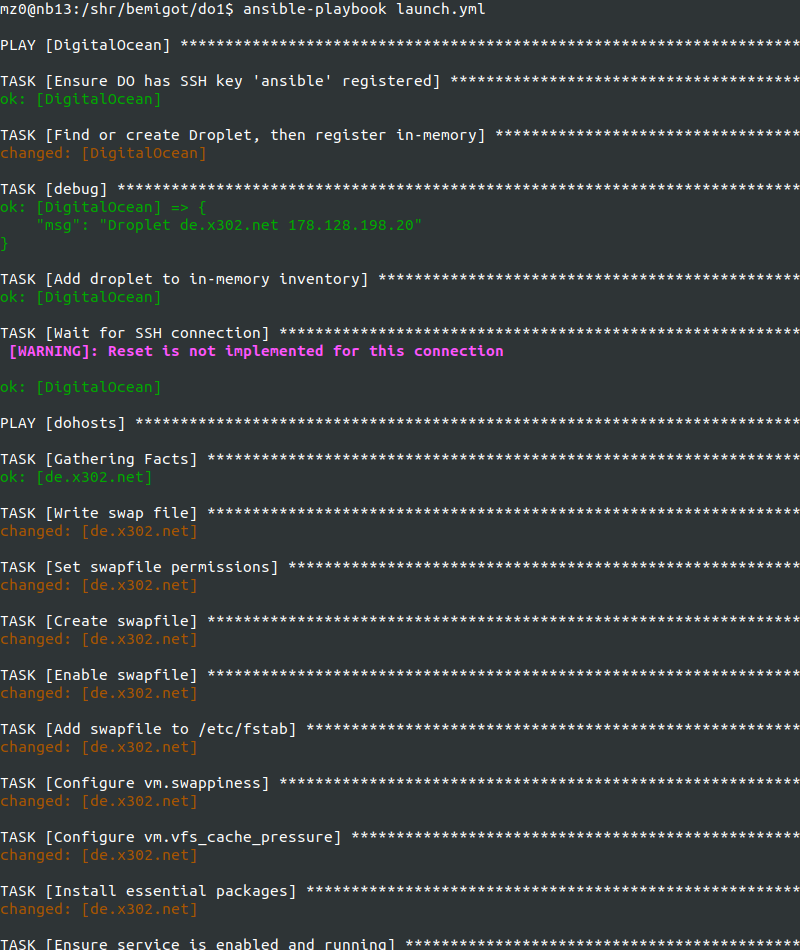
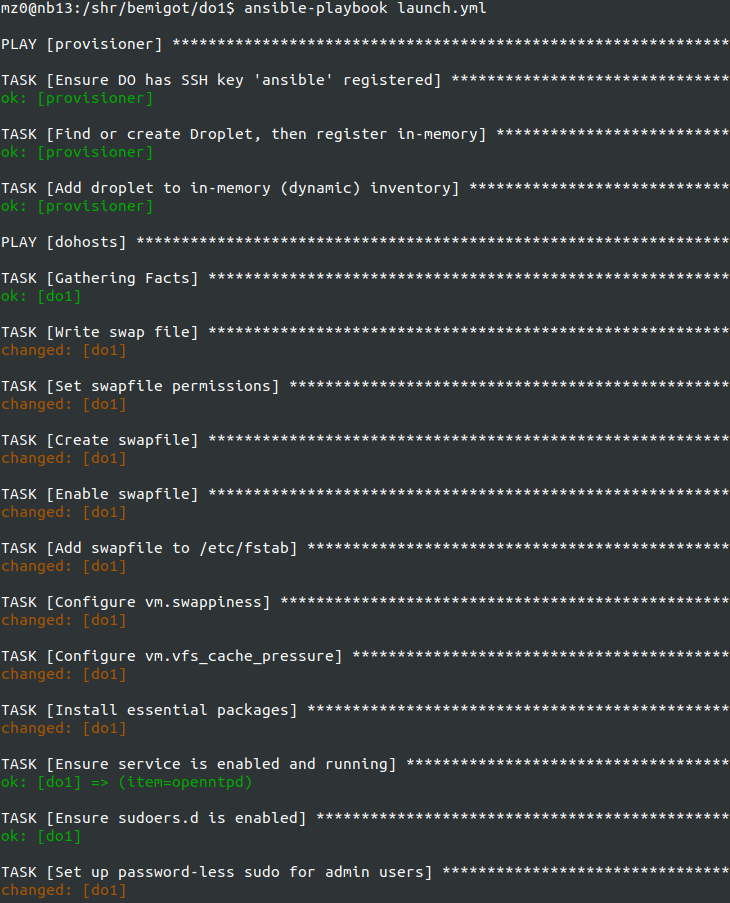
refactor
!! launch.yml - fix comments on ssh host-key checking !!

Changed region(s): [[0.0, 0.0, 1.0, 1.0]]

diff --git a/doc/do1-log.md b/doc/do1-log.md
@@ -1,89 +1,94 @@
 ```
-$ ansible-playbook launch.yml
+mz0@nb13:/shr/bemigot/do1$ ansible-playbook launch.yml
 
-PLAY [DigitalOcean] *********************************************************************
+PLAY [provisioner] **************************************************************
 
-TASK [Ensure DO has SSH key 'ansible' registered] ***************************************
-ok: [DigitalOcean]
+TASK [Ensure DO has SSH key 'ansible' registered] *******************************
+ok: [provisioner]
 
-TASK [Find or create Droplet, then register in-memory] **********************************
-changed: [DigitalOcean]
+TASK [Find or create Droplet, then register in-memory] **************************
+ok: [provisioner]
 
-TASK [debug] ****************************************************************************
-ok: [DigitalOcean] => {
-    "msg": "Droplet de.x302.net 178.128.198.20"
-}
+TASK [Add droplet to in-memory (dynamic) inventory] *****************************
+ok: [provisioner]
 
-TASK [Add droplet to in-memory inventory] ***********************************************
-ok: [DigitalOcean]
+PLAY [dohosts] ******************************************************************
 
-TASK [Wait for SSH connection] **********************************************************
- [WARNING]: Reset is not implemented for this connection
+TASK [Gathering Facts] **********************************************************
+ok: [do1]
 
-ok: [DigitalOcean]
+TASK [Write swap file] **********************************************************
+changed: [do1]
 
-PLAY [dohosts] **************************************************************************
+TASK [Set swapfile permissions] *************************************************
+changed: [do1]
 
-TASK [Gathering Facts] ******************************************************************
-ok: [de.x302.net]
+TASK [Create swapfile] **********************************************************
+changed: [do1]
 
-TASK [Write swap file] ******************************************************************
-changed: [de.x302.net]
+TASK [Enable swapfile] **********************************************************
+changed: [do1]
 
-TASK [Set swapfile permissions] *********************************************************
-changed: [de.x302.net]
+TASK [Add swapfile to /etc/fstab] ***********************************************
+changed: [do1]
 
-TASK [Create swapfile] ******************************************************************
-changed: [de.x302.net]
+TASK [Configure vm.swappiness] **************************************************
+changed: [do1]
 
-TASK [Enable swapfile] ******************************************************************
-changed: [de.x302.net]
+TASK [Configure vm.vfs_cache_pressure] ******************************************
+changed: [do1]
 
-TASK [Add swapfile to /etc/fstab] *******************************************************
-changed: [de.x302.net]
+TASK [Install essential packages] ***********************************************
+changed: [do1]
 
-TASK [Configure vm.swappiness] **********************************************************
-changed: [de.x302.net]
+TASK [Ensure service is enabled and running] ************************************
+ok: [do1] => (item=openntpd)
 
-TASK [Configure vm.vfs_cache_pressure] **************************************************
-changed: [de.x302.net]
+TASK [Ensure sudoers.d is enabled] **********************************************
+ok: [do1]
 
-TASK [Install essential packages] *******************************************************
-changed: [de.x302.net]
+TASK [Set up password-less sudo for admin users] ********************************
+changed: [do1]
 
-TASK [Ensure service is enabled and running] ********************************************
-ok: [de.x302.net] => (item=openntpd)
+TASK [Strict SSH access] ********************************************************
+ok: [do1] => (item={u'key': u'PubkeyAuthentication', u'value': u'yes'})
+ok: [do1] => (item={u'key': u'ChallengeResponseAuthentication', u'value': u'no'})
+changed: [do1] => (item={u'key': u'PasswordAuthentication', u'value': u'no'})
+changed: [do1] => (item={u'key': u'MaxAuthTries', u'value': u'5'})
+changed: [do1] => (item={u'key': u'LoginGraceTime', u'value': u'60'})
+changed: [do1] => (item={u'key': u'MaxSessions', u'value': u'5'})
+changed: [do1] => (item={u'key': u'MaxStartups', u'value': u'10:30:60'})
+ok: [do1] => (item={u'key': u'Port', u'value': 22})
 
-TASK [Ensure sudoers.d is enabled] ******************************************************
-ok: [de.x302.net]
+TASK [Create admin user] ********************************************************
+changed: [do1]
 
-TASK [Set up password-less sudo for admin users] ****************************************
-changed: [de.x302.net]
+TASK [Deploy ssh public key] ****************************************************
+changed: [do1]
 
-TASK [Strict SSH access] ****************************************************************
-ok: [de.x302.net] => (item={u'key': u'PubkeyAuthentication', u'value': u'yes'})
-ok: [de.x302.net] => (item={u'key': u'ChallengeResponseAuthentication', u'value': u'no'})
-changed: [de.x302.net] => (item={u'key': u'PasswordAuthentication', u'value': u'no'})
-changed: [de.x302.net] => (item={u'key': u'MaxAuthTries', u'value': u'5'})
-changed: [de.x302.net] => (item={u'key': u'LoginGraceTime', u'value': u'60'})
-changed: [de.x302.net] => (item={u'key': u'MaxSessions', u'value': u'5'})
-changed: [de.x302.net] => (item={u'key': u'MaxStartups', u'value': u'10:30:60'})
-ok: [de.x302.net] => (item={u'key': u'Port', u'value': 22})
+RUNNING HANDLER [restart sshd] **************************************************
+changed: [do1]
 
-TASK [Create admin user] ****************************************************************
-changed: [de.x302.net]
+RUNNING HANDLER [Reload sysctl] *************************************************
+changed: [do1]
 
-TASK [Deploy ssh public key] ************************************************************
-changed: [de.x302.net]
+PLAY RECAP **********************************************************************
+do1                        : ok=17   changed=14   unreachable=0    failed=0   
+provisioner                : ok=3    changed=0    unreachable=0    failed=0   
 
-RUNNING HANDLER [restart sshd] **********************************************************
-changed: [de.x302.net]
+mz0@nb13:/shr/bemigot/do1$ ansible-playbook destroy.yml 
+Name of server to destroy: de1.x302.net
 
-RUNNING HANDLER [Reload sysctl] *********************************************************
-changed: [de.x302.net]
+PLAY [provisioner] **************************************************************
 
-PLAY RECAP ******************************************************************************
-DigitalOcean               : ok=5    changed=1    unreachable=0    failed=0
-de.x302.net                : ok=17   changed=14   unreachable=0    failed=0
+TASK [Gathering Facts] **********************************************************
+ok: [provisioner]
 
+TASK [Delete droplet] ***********************************************************
+changed: [provisioner]
+
+PLAY RECAP **********************************************************************
+provisioner                : ok=2    changed=1    unreachable=0    failed=0   
+
+mz0@nb13:/shr/bemigot/do1$
 ```
